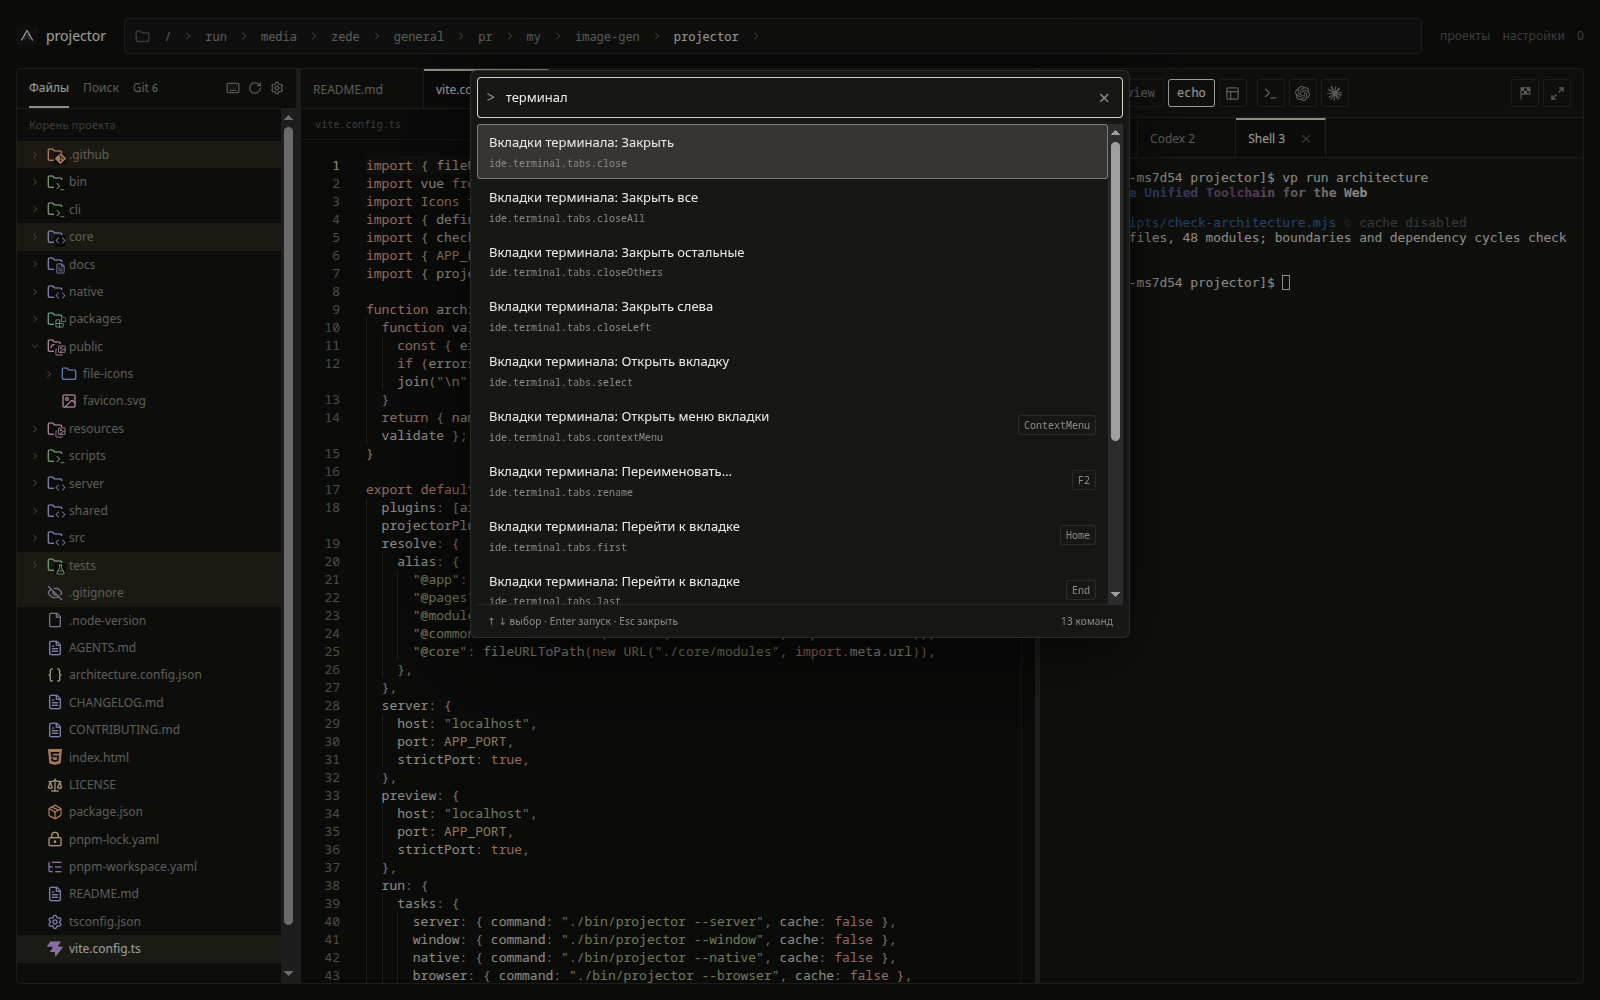
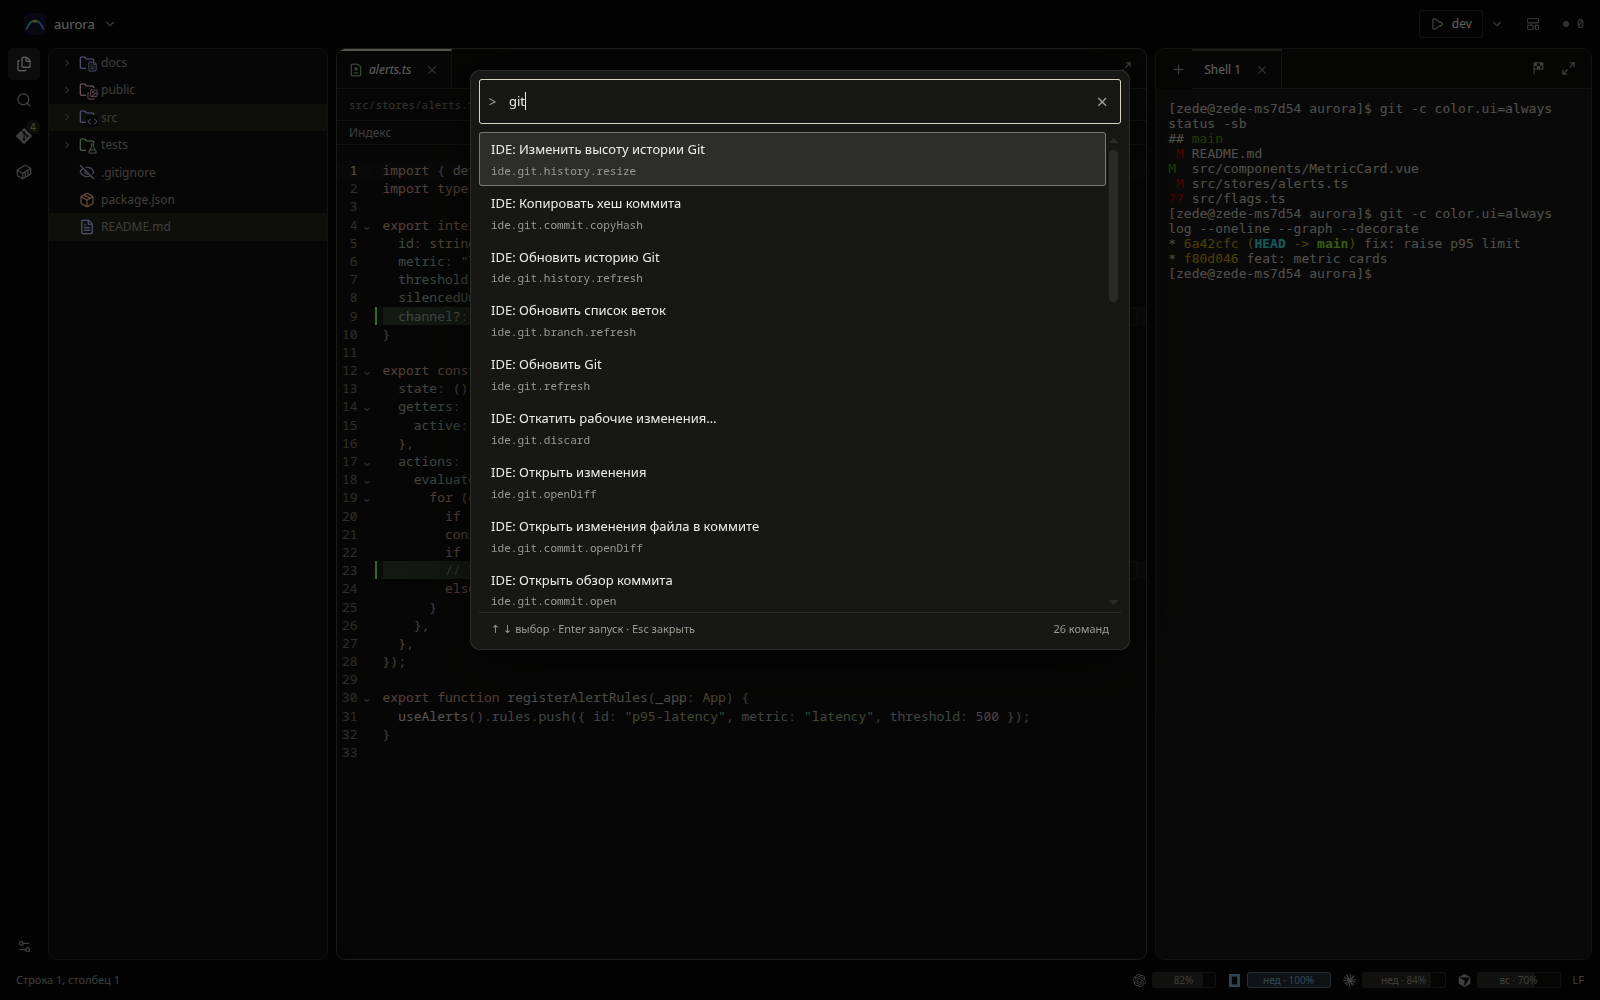
docs(readme): refresh screenshots and highlight key strengths

diff --git a/README.md b/README.md
@@ -10,30 +10,46 @@ Projector — локальное приложение для Linux, которо
 
 ## Интерфейс
 
-![Рабочее пространство Projector: файлы, исходный код и shell](docs/screenshots/workspace.png)
+![Рабочее пространство Projector: файлы, редактор и терминал в одном окне](docs/screenshots/workspace.png)
 
-На скриншотах Projector открыт в самом Projector: слева дерево проекта,
-в центре файл, справа терминалы и команды запуска.
+Всё нужное для проекта — в одном окне: дерево файлов, вкладки редактора и терминалы.
+Слева рейка панелей (файлы, поиск, Git, Docker), сверху переключатель проектов
+и кнопка запуска со сценариями из `package.json`.
 
-<details>
-<summary>Markdown, SVG и палитра команд</summary>
+### Сильные стороны
 
-**Markdown.** Документация отображается как редактируемый документ с таблицами
-и форматированием; Ctrl+Shift+M переключает документ и исходник.
+**Git без переключения контекста.** Панель показывает staged и изменённые файлы,
+ветку и историю. В редакторе открывается diff «индекс → рабочий файл» с откатом
+отдельных блоков, а в дереве у файлов стоят метки статуса.
 
-![Документ архитектуры Projector в Markdown-редакторе](docs/screenshots/markdown.png)
+![Git: изменённые файлы и построчный diff с откатом](docs/screenshots/git.png)
 
-**SVG.** Предпросмотр и исходник в одной вкладке, с настройками цвета, размера,
-фона и масштаба.
+**Чтение важнее правки.** Markdown отображается как документ с таблицами, списками
+и цитатами; Ctrl+Shift+M переключает документ и исходник.
 
-![Просмотр favicon Projector и исходника SVG](docs/screenshots/svg.png)
+![Markdown-документ с таблицей и цитатой](docs/screenshots/markdown.png)
 
-**Палитра команд.** Ctrl+Shift+P или F1 открывает поиск действий по текущему
-контексту с подсказками горячих клавиш.
+**Файлы не «открываются во внешней программе».** SVG показывается рядом с исходником,
+с настройкой цвета, размера, фона и масштаба. Иконка проекта подхватывается из его
+файлов автоматически.
 
-![Палитра команд в рабочем пространстве Projector](docs/screenshots/commands.png)
+![Предпросмотр SVG и исходник в одной вкладке](docs/screenshots/svg.png)
 
-</details>
+**Каждое действие — команда.** Ctrl+Shift+P или F1 открывает палитру со всеми
+командами `ide.*`, подсказками горячих клавиш и поиском по контексту. Те же команды
+видит и выполняет встроенный агент Projector, поэтому всё, что доступно в интерфейсе,
+доступно и ему.
+
+![Палитра команд с поиском по Git-командам](docs/screenshots/commands.png)
+
+**Доступно с телефона.** Включите режим локальной сети в настройках (с необязательным
+паролем) — и тот же сервер откроется с телефона с отдельной раскладкой: файлы,
+редактор и терминалы переключаются нижней панелью.
+
+<img src="docs/screenshots/mobile.png" alt="Мобильная раскладка: терминал проекта" width="320" />
+
+Кроме того: терминалы Shell, Codex, Claude Code, OpenCode и Cursor рядом с кодом,
+быстрый запуск проектов из GTK-палитры и один сервер на машину.
 
 ## Установка
 
